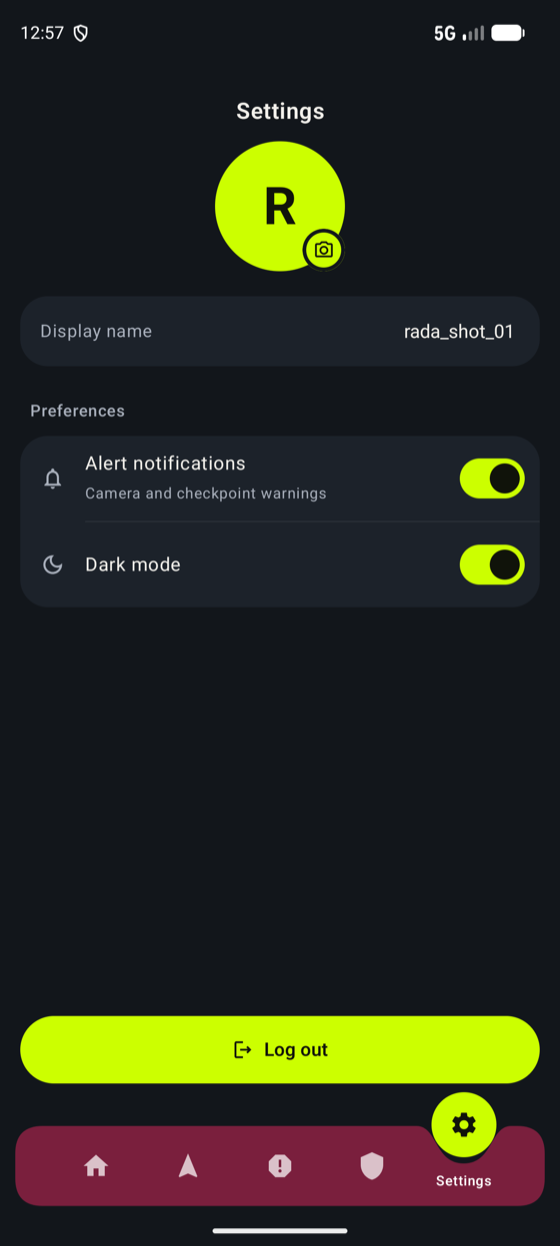
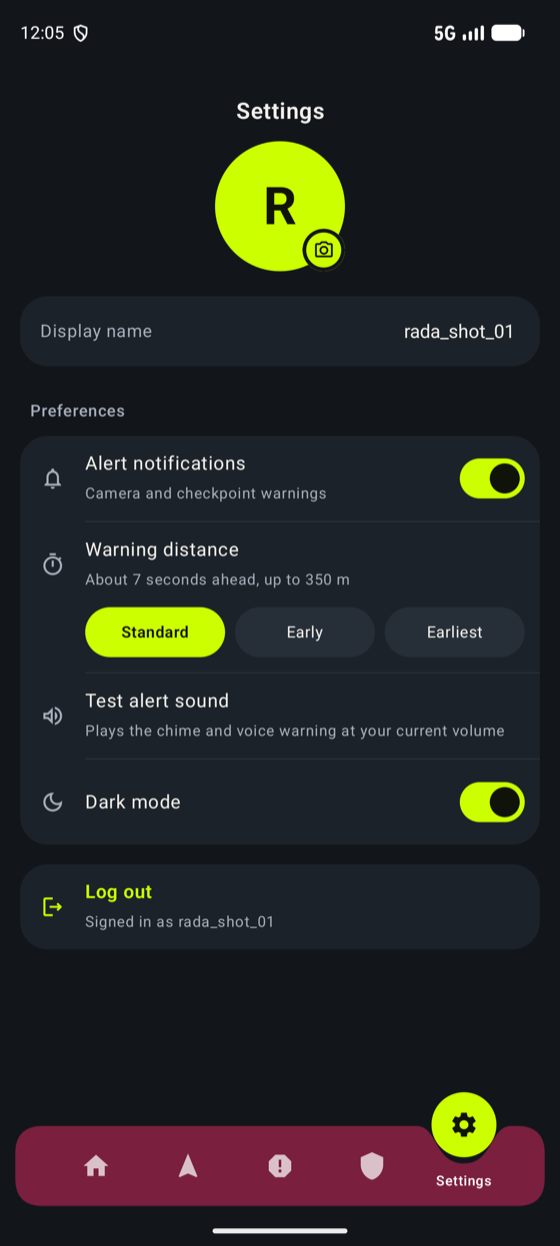
Settings: compact Log out row instead of the large button

diff --git a/androidApp/src/main/java/com/rada/android/features/settings/SettingsContentScreen.kt b/androidApp/src/main/java/com/rada/android/features/settings/SettingsContentScreen.kt
@@ -130,22 +130,18 @@ fun SettingsContentScreen(
                 )
             }
             Spacer(Modifier.height(16.dp))
+            SettingsGroup {
+                ActionRow(
+                    icon = Icons.AutoMirrored.Outlined.Logout,
+                    title = "Log out",
+                    subtitle = state.userName.takeIf { it.isNotBlank() }?.let { "Signed in as $it" } ?: "Sign out of this device",
+                    tint = RadaColors.Accent,
+                    onClick = { onIntent(SettingsIntent.SignOutTapped) }
+                )
+            }
+            Spacer(Modifier.height(16.dp))
         }
 
-        Button(
-            onClick = { onIntent(SettingsIntent.SignOutTapped) },
-            shape = CircleShape,
-            colors = ButtonDefaults.buttonColors(
-                containerColor = RadaColors.Accent,
-                contentColor = RadaColors.AccentInk
-            ),
-            elevation = ButtonDefaults.buttonElevation(0.dp, 0.dp, 0.dp, 0.dp, 0.dp),
-            modifier = Modifier.fillMaxWidth().padding(horizontal = 16.dp).height(54.dp)
-        ) {
-            Icon(Icons.AutoMirrored.Outlined.Logout, null, modifier = Modifier.size(18.dp))
-            Spacer(Modifier.width(8.dp))
-            Text("Log out", fontSize = 15.sp, fontWeight = FontWeight.SemiBold)
-        }
         Spacer(Modifier.height(BOTTOM_BAR_CLEARANCE))
 
     }
@@ -309,7 +305,7 @@ private fun LeadRow(selected: WarningLead, onSelect: (WarningLead) -> Unit) {
 }
 
 @Composable
-private fun ActionRow(icon: ImageVector, title: String, subtitle: String, onClick: () -> Unit) {
+private fun ActionRow(icon: ImageVector, title: String, subtitle: String, onClick: () -> Unit, tint: Color? = null) {
     val colors = MaterialTheme.colorScheme
     Row(
         Modifier
@@ -318,10 +314,10 @@ private fun ActionRow(icon: ImageVector, title: String, subtitle: String, onClic
             .padding(start = 16.dp, end = 12.dp, top = 10.dp, bottom = 10.dp),
         verticalAlignment = Alignment.CenterVertically
     ) {
-        Icon(icon, null, tint = colors.onSurfaceVariant, modifier = Modifier.size(20.dp))
+        Icon(icon, null, tint = tint ?: colors.onSurfaceVariant, modifier = Modifier.size(20.dp))
         Spacer(Modifier.width(16.dp))
         Column(Modifier.weight(1f)) {
-            Text(title, color = colors.onSurface, fontSize = 15.sp)
+            Text(title, color = tint ?: colors.onSurface, fontSize = 15.sp, fontWeight = if (tint != null) FontWeight.SemiBold else FontWeight.Normal)
             Text(subtitle, color = colors.onSurfaceVariant, fontSize = 12.sp)
         }
     }
